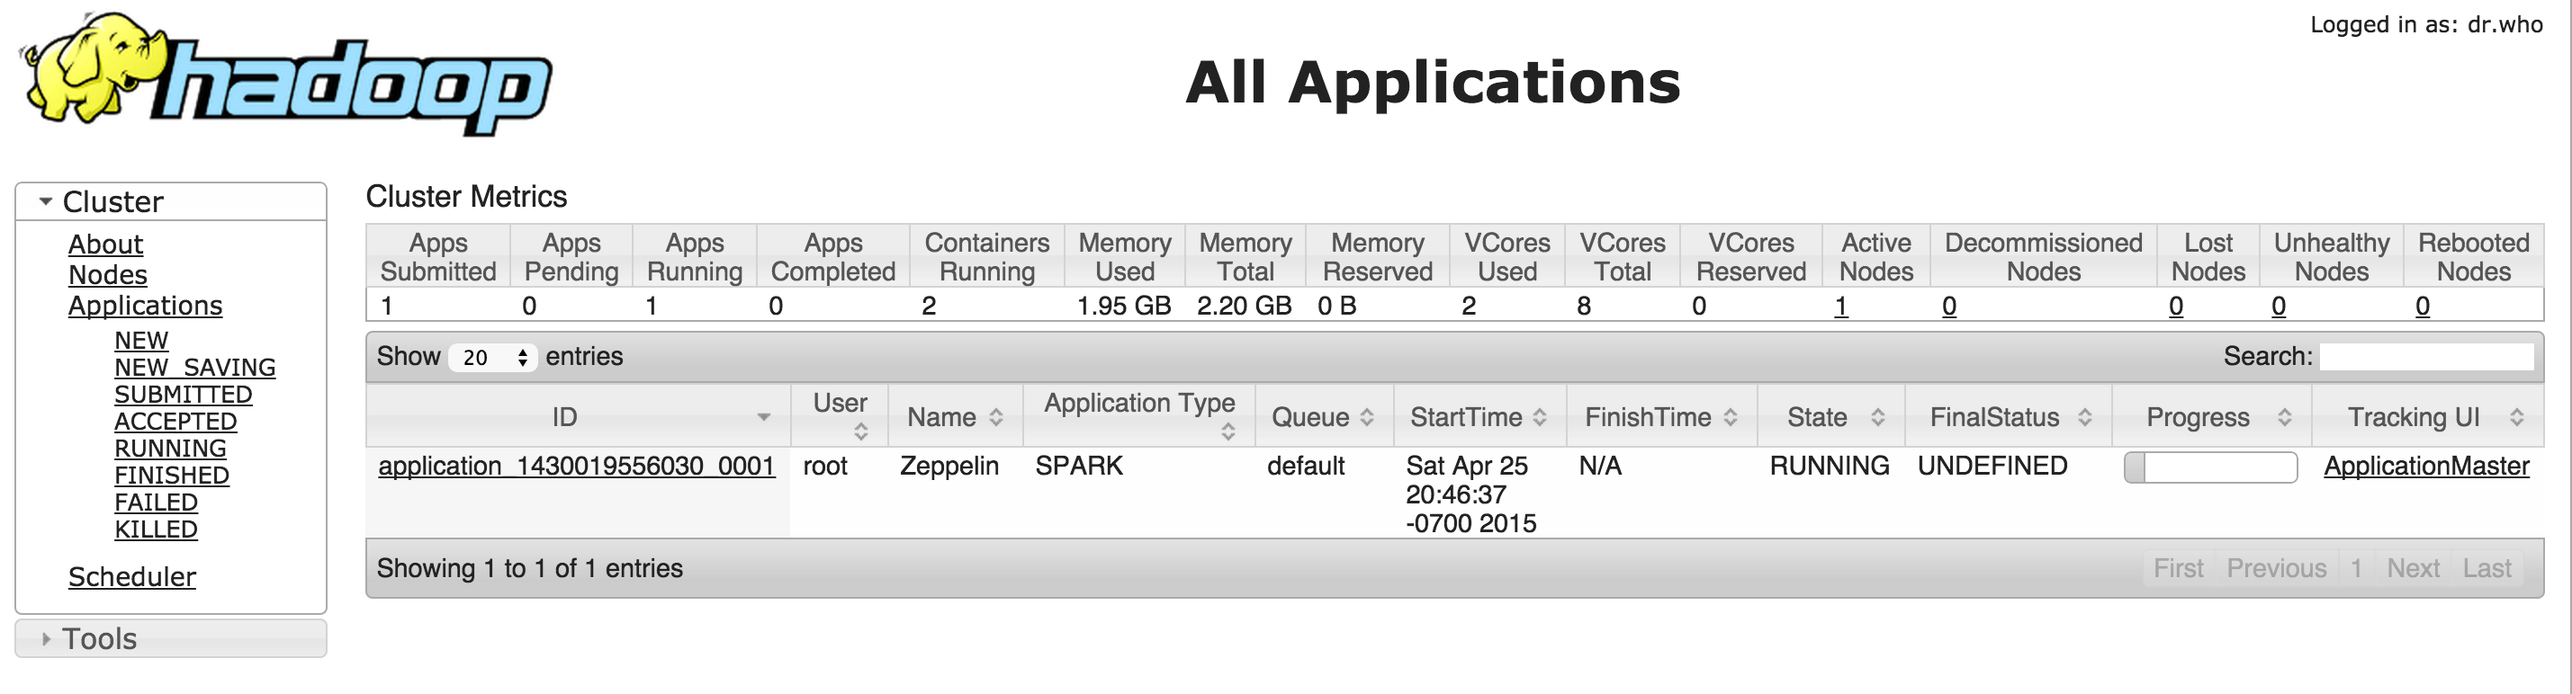
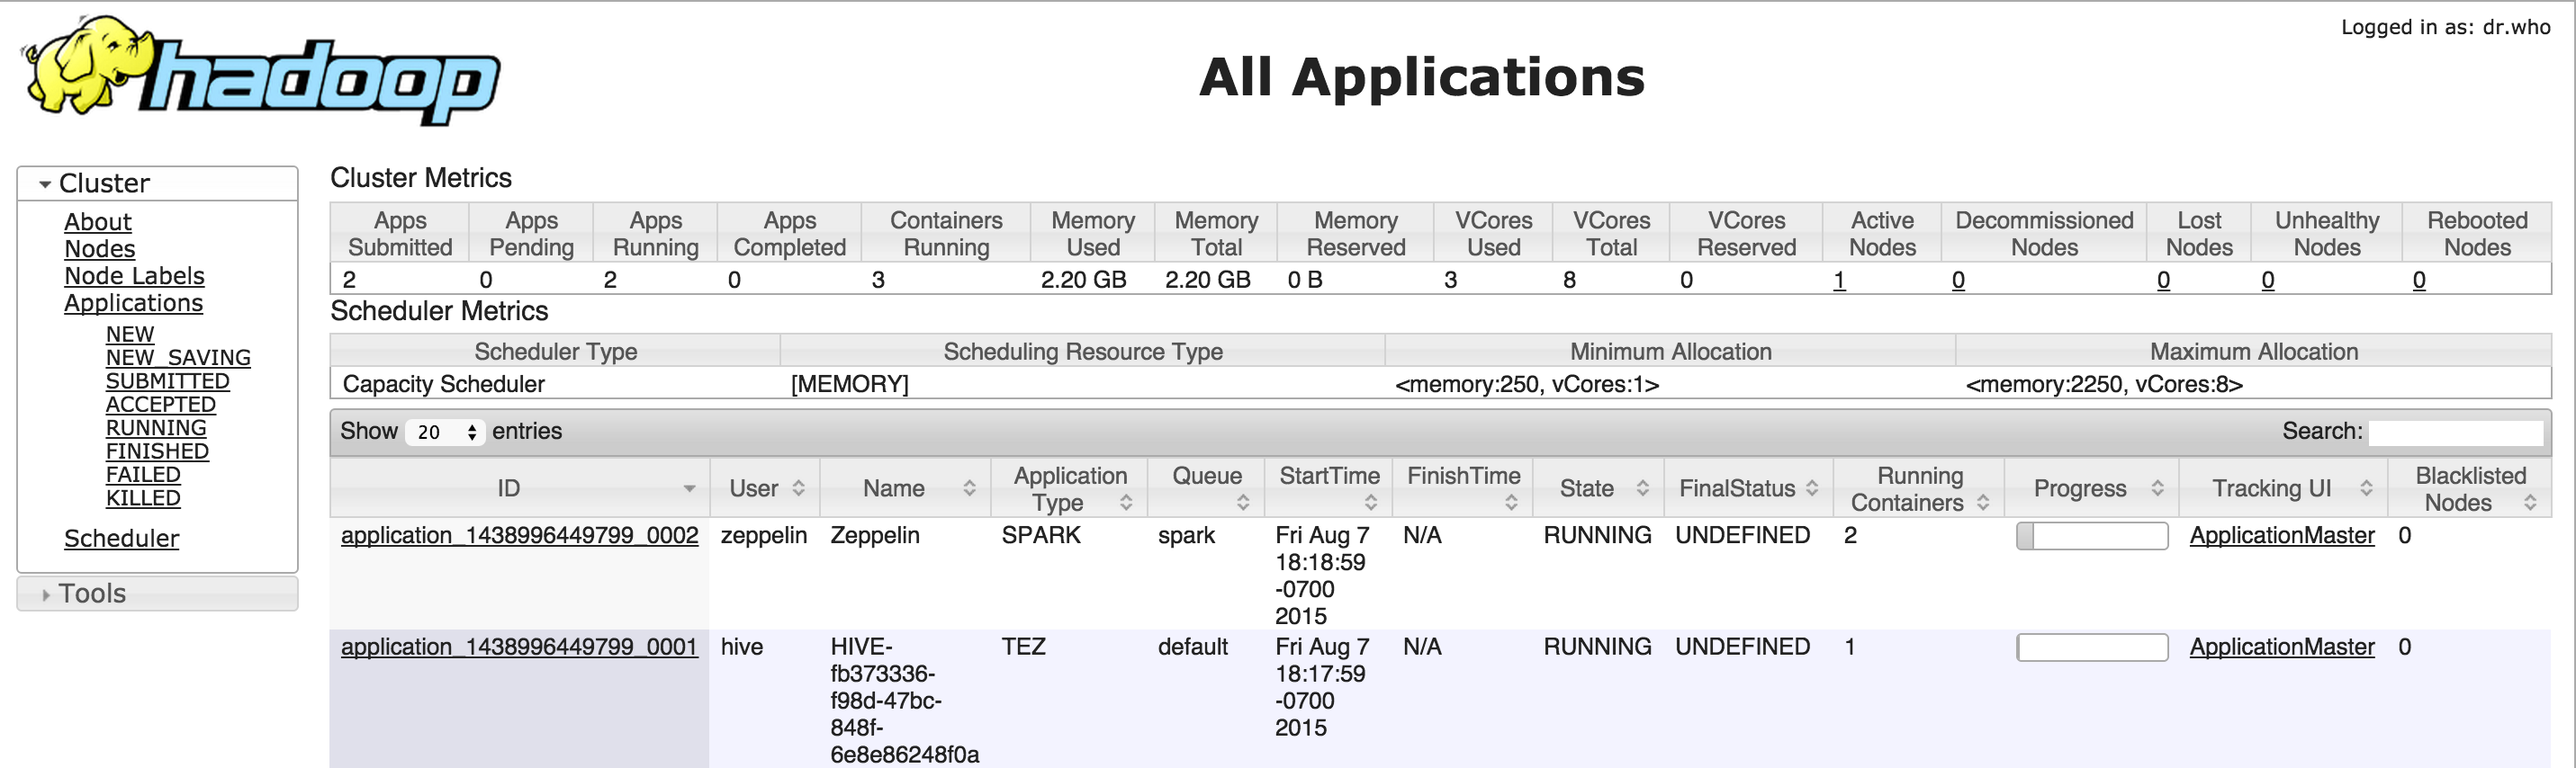
updated steps to include spark YARN queue

diff --git a/README.md b/README.md
@@ -26,7 +26,8 @@ Author: [Ali Bajwa](https://www.linkedin.com/in/aliabajwa)
   - Uploads zeppelin jar to /apps/zeppelin location in HDFS to be accessible from all nodes in cluster
   - Exposes the [zeppelin-site.xml](https://github.com/apache/incubator-zeppelin/blob/master/conf/zeppelin-site.xml.template) and [zeppelin-env.sh](https://github.com/apache/incubator-zeppelin/blob/master/conf/zeppelin-env.sh.template) files in Ambari for easy configuration
   - Deploys sample notebooks (that demo hive, spark and sparksql, shell intepreters)
-  - Configures Zeppelin to point to Hive metastore so Spark commands can access Hive tables out of the box
+  - Autodetects and configures Zeppelin to point to default Spark YARN queue. Users can use this, in conjunction with the [Capacity scheduler/YARN Queue Manager view](http://hortonworks.com/blog/hortonworks-data-platform-2-3-delivering-transformational-outcomes/), to set what percentage of the clusters resources get allocated to Spark.
+  - Autodetects and configures Zeppelin to point to Hive metastore so Spark commands can access Hive tables out of the box
   - Spark, pyspark, sparksql, hive, shell all tested to be working
   - Offline mode: can manually copy tar to /tmp/zeppelin.tar.gz to allow service to be installed on clusters without internet access
   - Deploy using steps below or via [Ambari Store view](https://github.com/jpplayer/amstore-view)
@@ -65,7 +66,7 @@ ssh root@sandbox.hortonworks.com
 ```
 - If you deployed in a VirtualBox Sandbox environment, enable port forwarding on ports 9995 and 9996. If you don't enable port 9996, the Zeppelin UI/Ambari View shows disconnected on the upper right and none of the default tutorials are visible. 
 
-- Ensure Spark and Hive are installed. If not, use Add service wizard to install them
+- Ensure Spark and Hive are installed/started. If not, use Add service wizard to install them. You can also bring down services that are not used by this tutorial (like Oozie/Falcon)
 
 - (Optional) If you want to use Spark 1.4 instead of 1.3 (which comes with HDP 2.3), you can use below commands to download and set it up
 ```
@@ -79,6 +80,16 @@ echo "spark.driver.extraJavaOptions -Dhdp.version=$HDP_VER" >> spark-1.4.1-bin-h
 echo "spark.yarn.am.extraJavaOptions -Dhdp.version=$HDP_VER" >> spark-1.4.1-bin-hadoop2.6/conf/spark-defaults.conf
 exit
 ```
+
+- (Optional) You can setup/configure a YARN queue to customize what portion of the cluster the Spark job should use.
+  - Open the Yarn Queue Manager view to setup a queue for Spark with:
+    - Capacity: 50%
+    - Max Capacity: 90% (on sandbox, do not reduce below this or the Spark jobs will not run)
+
+![Image](../master/screenshots/capacity-scheduler-spark-queue.png?raw=true)
+
+  - In Ambari under Spark > Configs, set the default queue for Spark. The Zeppelin Ambari service will autodetect this queue and configure Zeppelin to use the same.
+![Image](../master/screenshots/spark-config-view.png?raw=true)
 
 
 #### Setup the Ambari service
@@ -256,9 +267,16 @@ select description, salary from default.sample_07
 
 You can also use this UI for troubleshooting hanging jobs. For example if Hive job is stuck waiting for Spark to give up YARN resources (or vice versa), you can restart the Spark interpreter via Zeppelin before running the Hive query
 
-- Click on the ApplicationMaster link to access the Spark UI:
+  - Use the scheduler link to validate the proportion of the cluster used by Spark/Tez. For example, if you setup the Spark YARN queue as above, when only Spark is running, the UI will show Spark taking up 89% of the cluster  
+![Image](../master/screenshots/RM-UI-2.png?raw=true)  
+  - The Ambari metrics on the main dashboard will show the same:
+![Image](../master/screenshots/Ambari-YARN-metric.png?raw=true)  
+
+
+- Click on the ApplicationMaster link in YANR UI to access the Spark UI:
 
 ![Image](../master/screenshots/spark-UI.png?raw=true)
+
 
 
 - One benefit to wrapping the component in Ambari service is that you can now monitor/manage this service remotely via REST API
